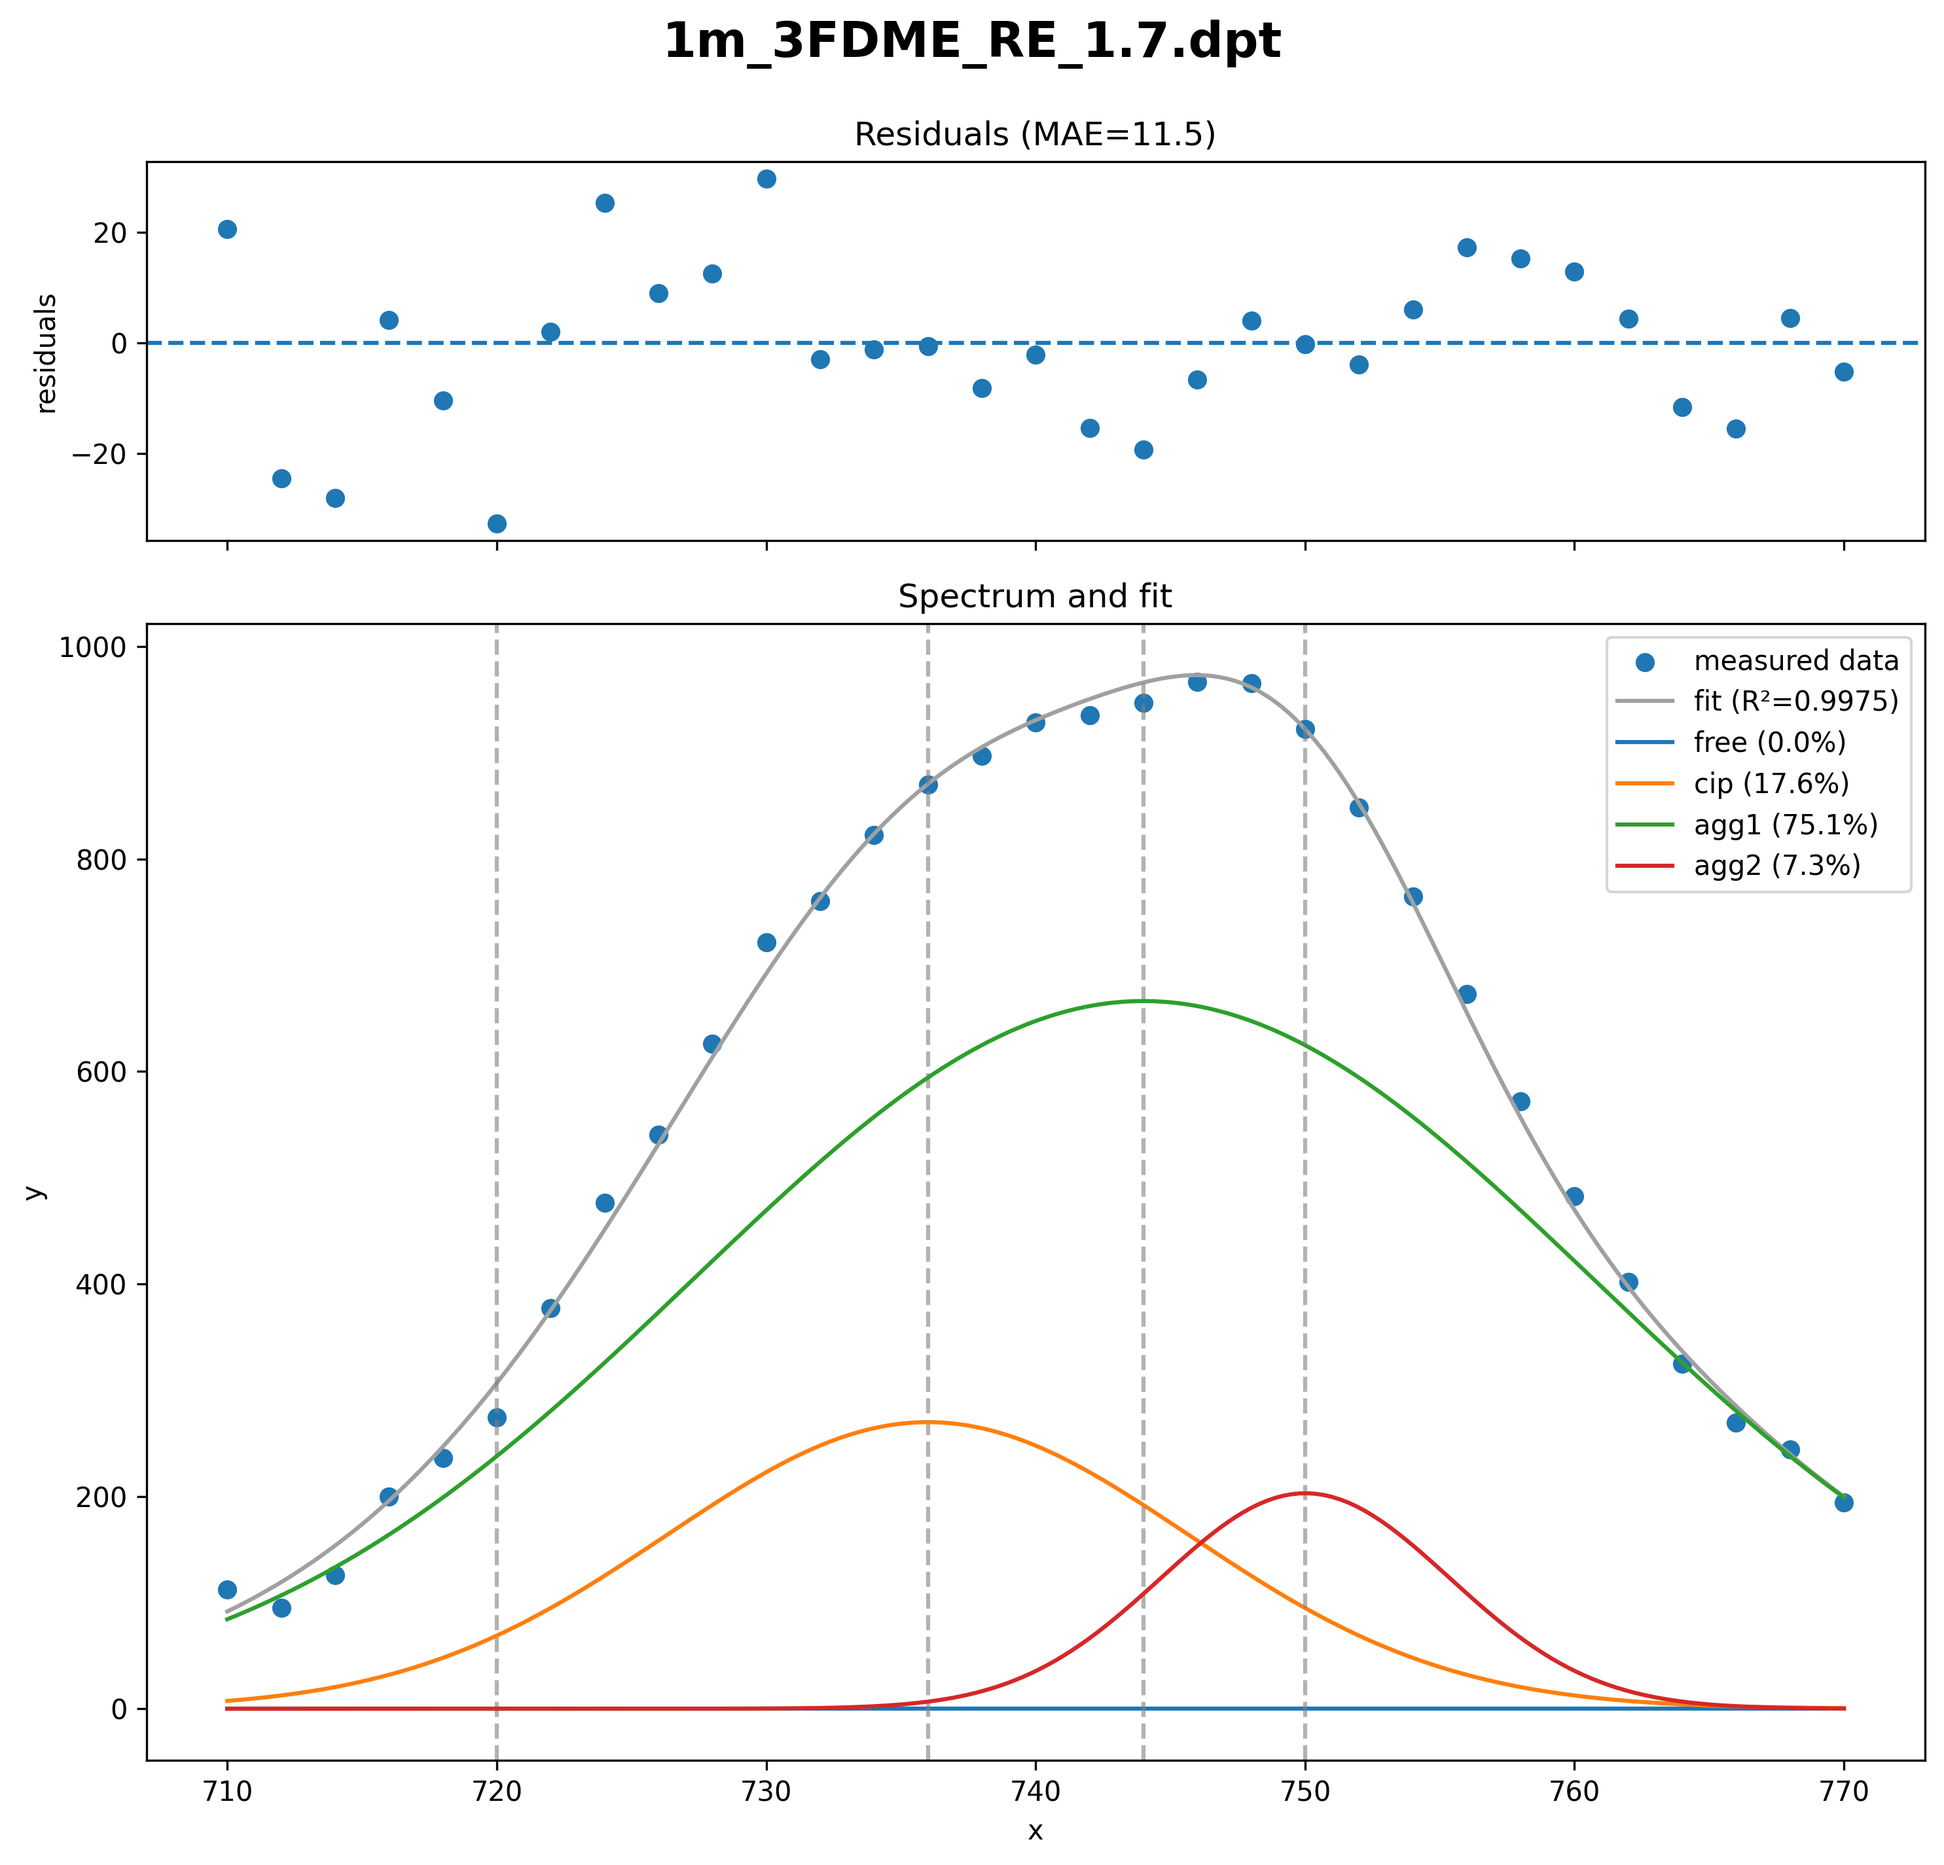
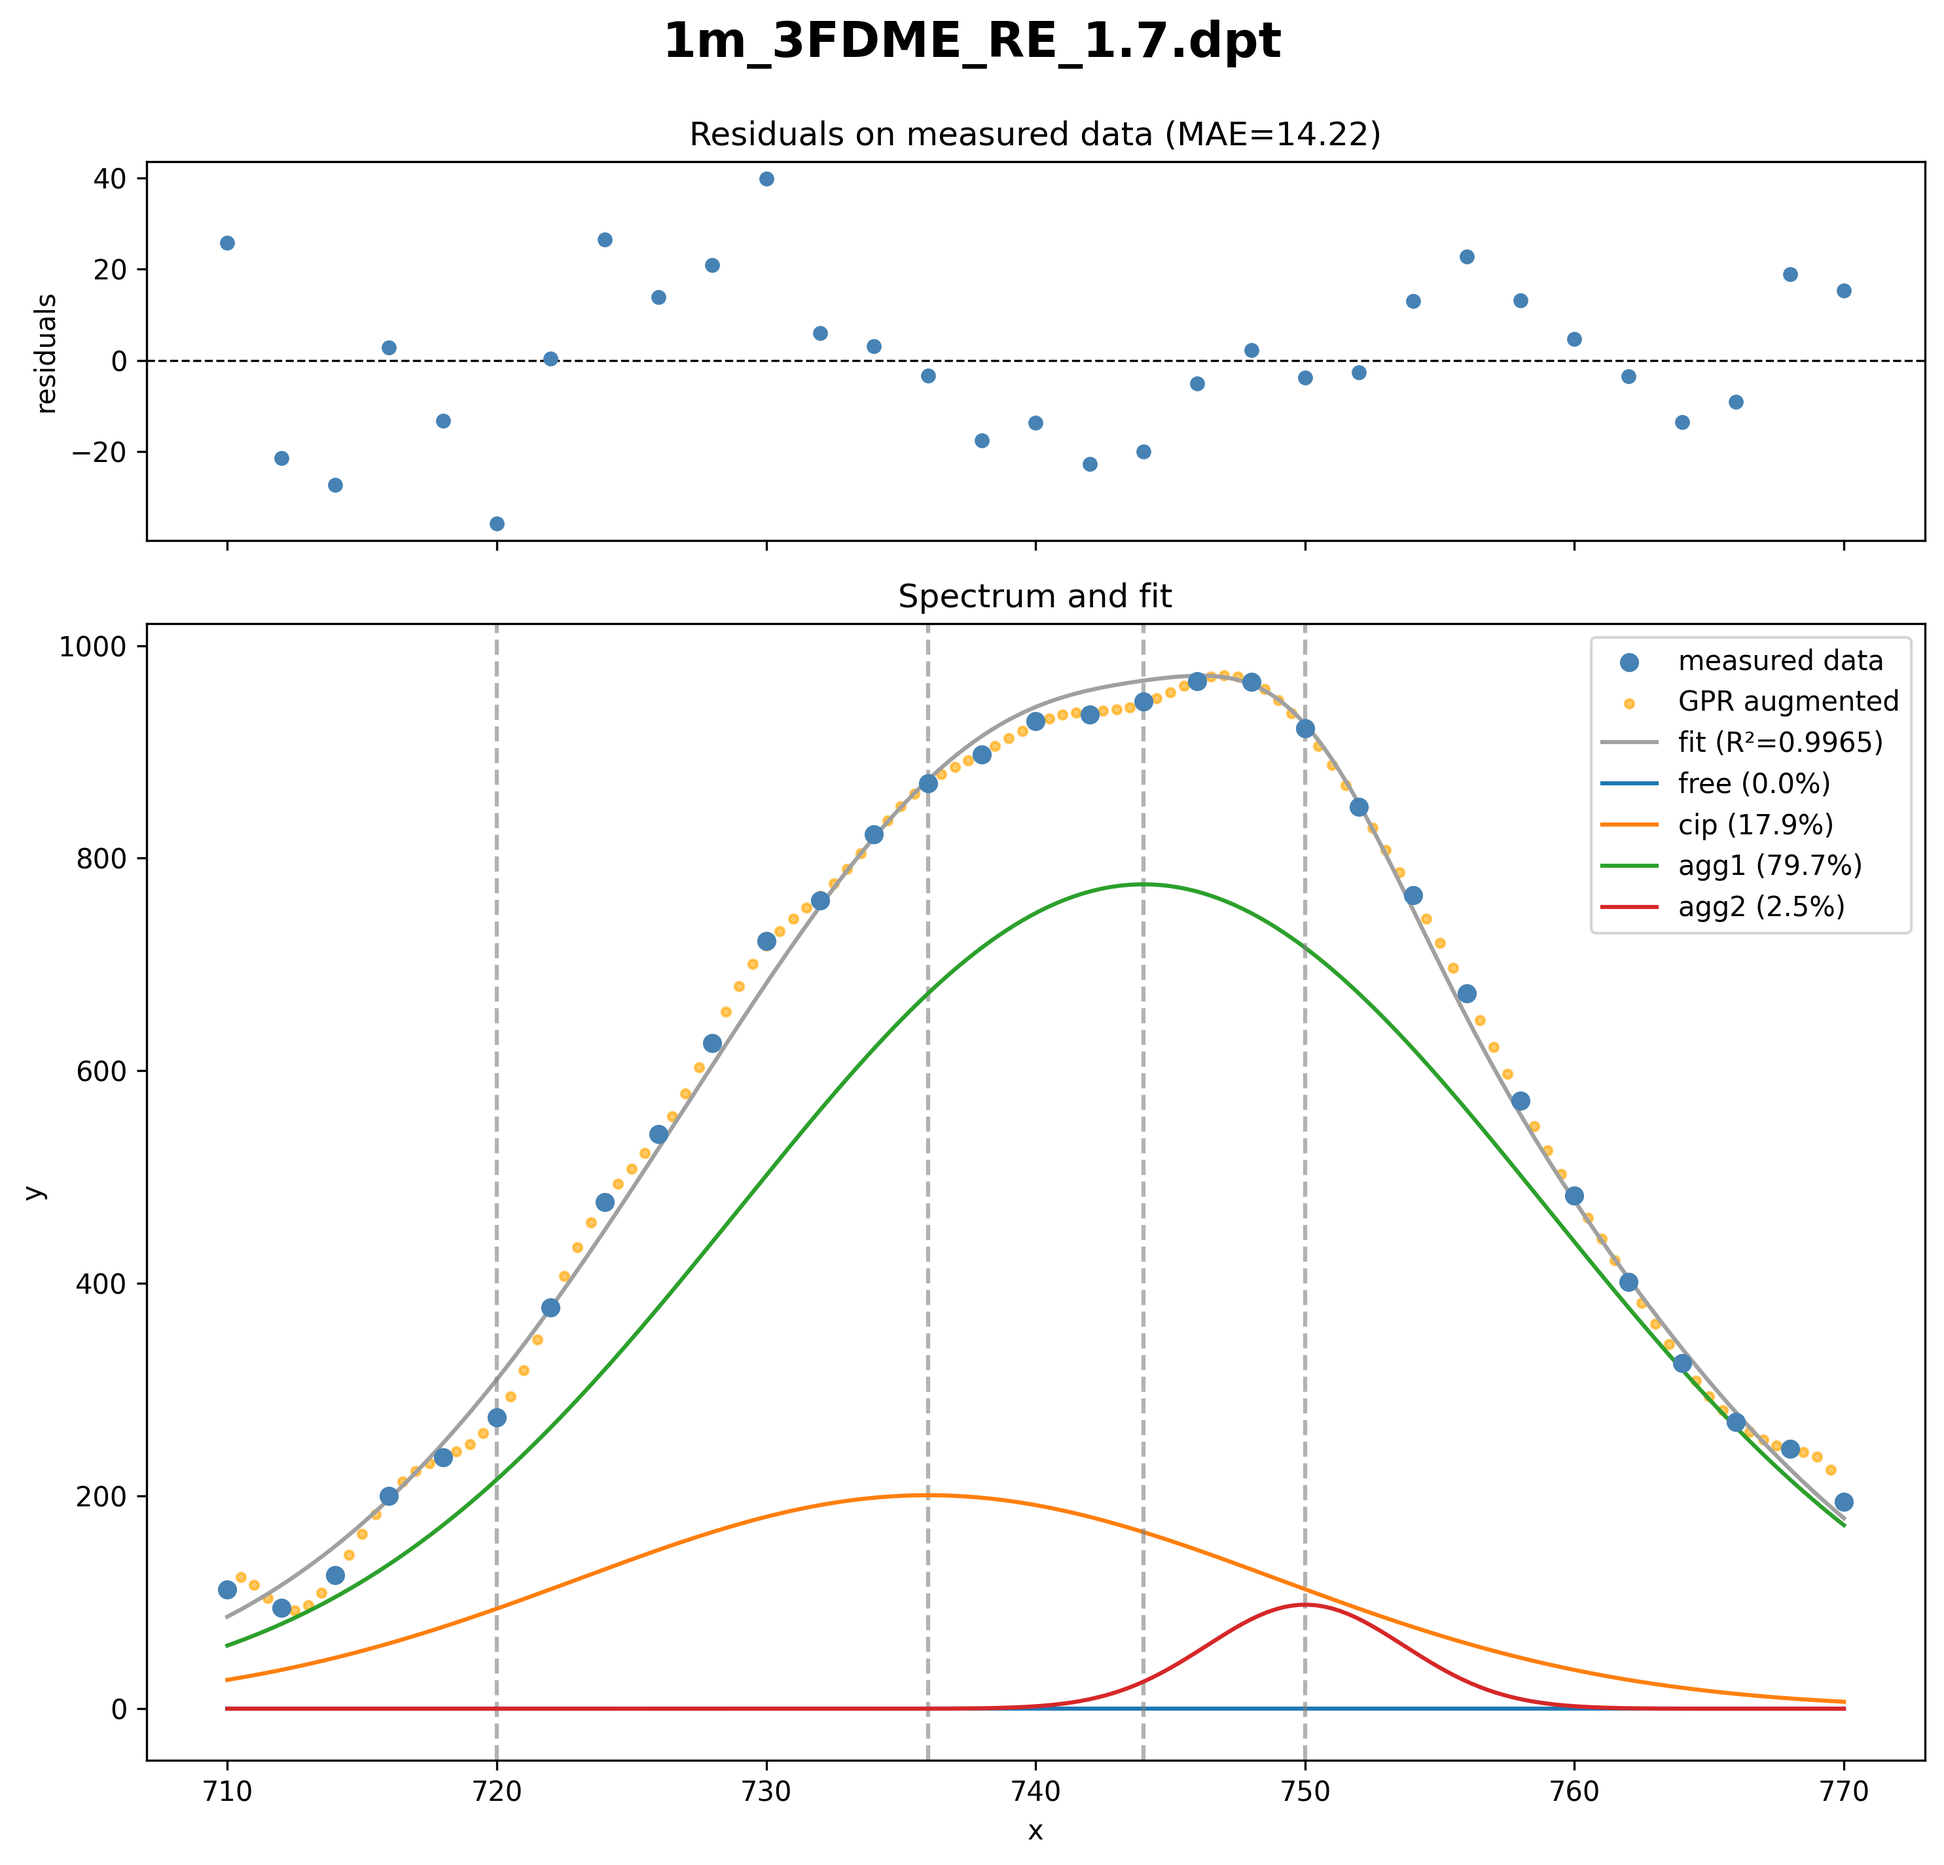
update
better: better algorithm, multi start, parallelization

better-ing: GPR data augmentation

diff --git a/raman_deconv_better.py b/raman_deconv_better.py
@@ -3,8 +3,6 @@ import matplotlib
 matplotlib.use('Agg')  # non-interactive backend; must be set before pyplot import
 import matplotlib.pyplot as plt
 from lmfit import Model, models
-from sklearn.gaussian_process import GaussianProcessRegressor
-from sklearn.gaussian_process.kernels import RBF
 from tqdm import tqdm
 import os
 import csv
@@ -92,34 +90,6 @@ def initialize_params_from_data(params, peak_dict, x, y):
     return params
 
 
-def augment_data_with_gpr(x, y, n_interp):
-    # Normalise x to [0, 1] so RBF length_scale has a consistent scale across datasets.
-    x_min, x_max = x.min(), x.max()
-    x_norm = (x - x_min) / (x_max - x_min)
-
-    # length_scale must be larger than inter-point spacing so the RBF covers multiple
-    # neighbours and produces a smooth curve between data points.
-    # alpha≈0 already guarantees exact passage through the measured points.
-    avg_spacing = 1.0 / max(len(x_norm) - 1, 1)
-    kernel = RBF(length_scale=avg_spacing * 3, length_scale_bounds='fixed')
-    gpr = GaussianProcessRegressor(kernel=kernel, n_restarts_optimizer=0, normalize_y=True, alpha=1e-10)
-    gpr.fit(x_norm.reshape(-1, 1), y)
-
-    # Insert n_interp equally-spaced points between each pair of adjacent measured points.
-    x_aug_norm = []
-    for i in range(len(x_norm) - 1):
-        seg = np.linspace(x_norm[i], x_norm[i + 1], n_interp + 2)
-        x_aug_norm.extend(seg[:-1].tolist())
-    x_aug_norm.append(float(x_norm[-1]))
-    x_aug_norm = np.array(x_aug_norm)
-
-    y_aug = gpr.predict(x_aug_norm.reshape(-1, 1))
-    y_aug = np.clip(y_aug, 0, None)
-
-    x_aug = x_aug_norm * (x_max - x_min) + x_min
-    return x_aug, y_aug
-
-
 def _run_single_trial(args):
     # Worker for ThreadPoolExecutor; each call runs one local fit
     model, trial_params, x, y = args
@@ -181,48 +151,28 @@ def fit_robust(model, params, x, y, settings_dict):
     return best_result
 
 
-def save_curve_image(
-    x_raw, y_raw, result, filename, peak_dict, settings_dict,
-    curve_image_path=CURVE_IMAGE_PATH,
-    rsquared_raw=None,
-    x_aug=None, y_aug=None,
-    FNC_DOTS=200,
-):
+def save_curve_image(x, y, result, filename, peak_dict, settings_dict, curve_image_path=CURVE_IMAGE_PATH, FNC_DOTS=200):
     if not os.path.exists(curve_image_path):
         os.makedirs(curve_image_path, exist_ok=True)
-
-    # Residuals are always computed against original measured data so the plot
-    # reflects true measurement quality regardless of whether GPR augmentation was used.
-    y_pred_raw = result.model.eval(params=result.params, x=x_raw)
-    residuals_raw = y_raw - y_pred_raw
-
-    r2_display = rsquared_raw if rsquared_raw is not None else result.rsquared
-
+    
     fig, (ax_res, ax_main) = plt.subplots(
         2, 1,
         figsize=(10, 10),
         sharex=True,
         gridspec_kw={'height_ratios': [1, 3]}
     )
-
-    # Residual panel (original data only)
-    ax_res.scatter(x_raw, residuals_raw, s=20, color='steelblue', zorder=3)
-    ax_res.axhline(0, linestyle='--', color='black', linewidth=0.8)
+    # Plot residuals
+    residuals = result.residual
+    ax_res.scatter(x, residuals)
+    ax_res.axhline(0, linestyle='--')
     ax_res.set_ylabel('residuals')
 
-    # Main panel — measured data
-    ax_main.scatter(x_raw, y_raw, label='measured data', color='steelblue', zorder=3)
-
-    # GPR-augmented points (shown only when GPR was applied)
-    if x_aug is not None and y_aug is not None:
-        ax_main.scatter(
-            x_aug, y_aug,
-            label='GPR augmented', color='orange', s=10, alpha=0.6, zorder=2
-        )
-
+    # Plot main figure
+    ax_main.scatter(x, y, label='measured data')
+    
     x_fit = np.linspace(settings_dict['RANGE_MIN'], settings_dict['RANGE_MAX'], FNC_DOTS)
     y_fit = result.model.eval(params=result.params, x=x_fit)
-    fit_label = f"fit (R²={r2_display:.4f})"
+    fit_label = f"fit (R²={result.rsquared:.4f})"
     ax_main.plot(x_fit, y_fit, '-', label=fit_label, color='#a0a0a0')
 
     peak_names = list(peak_dict.keys())
@@ -233,7 +183,7 @@ def save_curve_image(
         for name, amp in zip(peak_names, peak_amplitudes):
             peak_ratios[name] = amp / total_amplitude * 100
 
-    # Component curves (peak + background)
+    # component curves (peak + background)
     y_fit_components = result.model.eval_components(params=result.params, x=x_fit)
     for i in range(len(y_fit_components)):
         prefixname = result.model.components[i].prefix
@@ -248,8 +198,8 @@ def save_curve_image(
 
     ax_main.set_xlabel('x')
     ax_main.set_ylabel('y')
-    mae = np.mean(np.abs(residuals_raw))
-    ax_res.set_title(f'Residuals on measured data (MAE={mae:.4g})')
+    mae = np.mean(np.abs(residuals))
+    ax_res.set_title(f'Residuals (MAE={mae:.4g})')
     ax_main.set_title('Spectrum and fit')
     fig.suptitle(filename, fontsize=18, fontweight='bold', y=0.975)
 
@@ -267,40 +217,18 @@ def process_file(args):
     spectrum = np.loadtxt(file_path, delimiter=',')
     x_all = spectrum[:, 0]; y_all = spectrum[:, 1]
     mask = (x_all >= settings_dict['RANGE_MIN']) & (x_all <= settings_dict['RANGE_MAX'])
-    x_raw = x_all[mask]; y_raw = y_all[mask]
-
-    n_interp = int(settings_dict.get('SPLINE', 0))
-    if n_interp > 0:
-        x_fit, y_fit = augment_data_with_gpr(x_raw, y_raw, n_interp)
-        x_aug, y_aug = x_fit, y_fit
-    else:
-        x_fit, y_fit = x_raw, y_raw
-        x_aug, y_aug = None, None
+    x = x_all[mask]; y = y_all[mask]
 
     model, params = construct_model(peak_dict, settings_dict)
-    params = initialize_params_from_data(params, peak_dict, x_fit, y_fit)
-    result = fit_robust(model, params, x_fit, y_fit, settings_dict)
+    params = initialize_params_from_data(params, peak_dict, x, y)
+    result = fit_robust(model, params, x, y, settings_dict)
 
-    # R² on augmented (or original) data — what the optimizer actually minimised
-    rsquared_aug = result.rsquared
-
-    # R² on original measured data — reflects true measurement quality
-    y_pred_raw = result.model.eval(params=result.params, x=x_raw)
-    ss_res = float(np.sum((y_raw - y_pred_raw) ** 2))
-    ss_tot = float(np.sum((y_raw - np.mean(y_raw)) ** 2))
-    rsquared_raw = 1.0 - ss_res / ss_tot if ss_tot > 0 else 0.0
-
-    save_curve_image(
-        x_raw, y_raw, result, filename, peak_dict, settings_dict, curve_image_path,
-        rsquared_raw=rsquared_raw,
-        x_aug=x_aug, y_aug=y_aug,
-    )
+    save_curve_image(x, y, result, filename, peak_dict, settings_dict, curve_image_path)
 
     # Return plain data so the main process can write CSVs without race conditions
     peak_names = list(peak_dict.keys())
     best_values = dict(result.best_values)
-    best_values['rsquared_raw'] = rsquared_raw
-    best_values['rsquared_aug'] = rsquared_aug
+    best_values['rsquared'] = result.rsquared
     return filename, peak_names, best_values
 
 
@@ -317,17 +245,12 @@ def write_csv_results(results, peak_dict):
             writer.writerow([filename] + [a / total * 100 for a in amps])
 
     # Write full fitted parameters
-    _rsq_keys = {'rsquared_raw', 'rsquared_aug'}
-    param_keys = [k for k in results[0][2].keys() if k not in _rsq_keys]
+    param_keys = [k for k in results[0][2].keys() if k != 'rsquared']
     with open(FITTED_FUNCTION_PATH, 'w', newline='') as f:
         writer = csv.writer(f)
-        writer.writerow(['filename'] + param_keys + ['rsquared_raw', 'rsquared_aug'])
+        writer.writerow(['filename'] + param_keys + ['rsquared'])
         for filename, _, best_values in results:
-            writer.writerow(
-                [filename]
-                + [best_values[k] for k in param_keys]
-                + [best_values['rsquared_raw'], best_values['rsquared_aug']]
-            )
+            writer.writerow([filename] + [best_values[k] for k in param_keys] + [best_values['rsquared']])
 
 
 if __name__ == "__main__":

diff --git a/README.md b/README.md
@@ -4,15 +4,17 @@
 구체적으로는, FSI- 염의 raman spectrum을 free anion, CIP, AGG (AGG1, AGG2,...) 피크로 분해하고, 각 피크의 면적 비교를 하기 위한 코드입니다.
 
 ## 의존성
-본 코드는 python3 기반입니다. 필요한 패키지는 다음과 같습니다.
+본 코드는 python3(>=3.11) 기반입니다. 필요한 패키지는 다음과 같습니다.
 ```
 lmfit
+scikit-learn
 matplotlib
 tqdm
 
 (이하 패키지들은 위 패키지 설치 시 자동 설치됨)
 scipy
 numpy
+...
 ```
 
 ## 사용법
